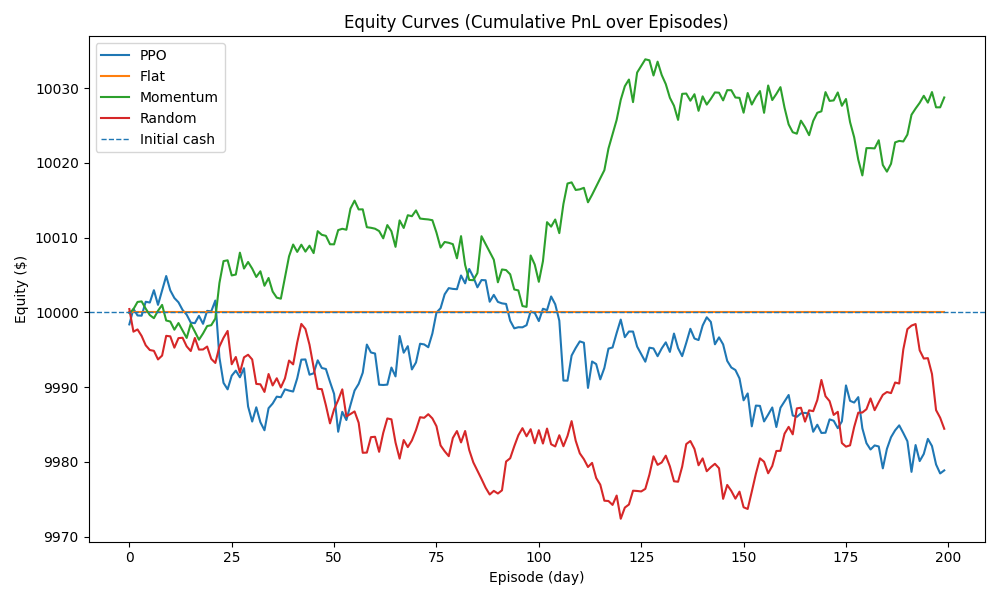
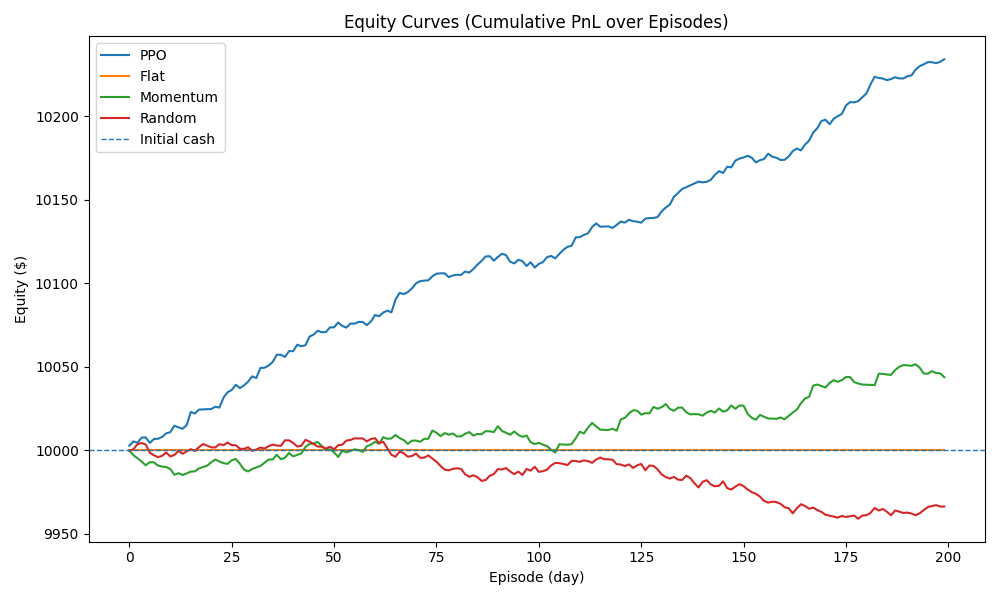
added more training runs

diff --git a/agent/train_agent.py b/agent/train_agent.py
@@ -64,7 +64,7 @@ def train():
     model.set_logger(new_logger)
 
     # Train for a small number of steps just to see if it runs
-    model.learn(total_timesteps=10_000)
+    model.learn(total_timesteps=5_000_000)
 
     model_path = "./agent/models/ppo_kalshi_realdata.zip"
     os.makedirs(os.path.dirname(model_path), exist_ok=True)

diff --git a/main.py b/main.py
@@ -3,6 +3,7 @@ import os
 from pathlib import Path
 
 from live_trading.kalshi_api import Environment, KalshiClient
+from agent.train_agent import train
 
 
 def resolve_environment() -> Environment:
@@ -24,4 +25,4 @@ def main():
     print(f"Balance is {markets_resp}")
 
 if __name__ == "__main__":
-    main()
+    train()
